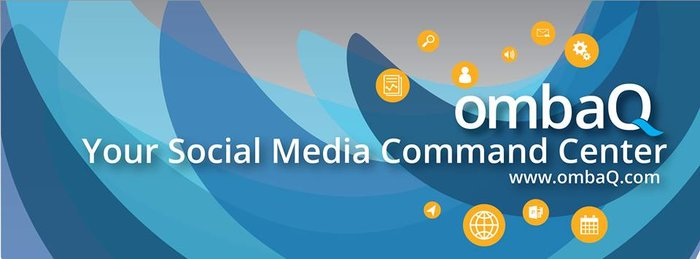
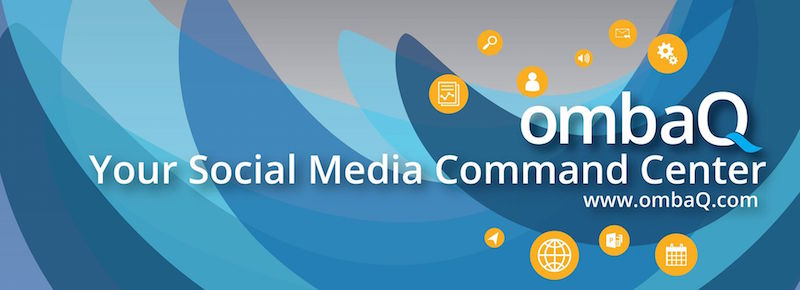
1. Change header background color to dark blue 2. Change main container max-width to 775px 3. Change ombaQ poster image 4. Change card margin 5. Change card box-shadow

diff --git a/dist/index.html b/dist/index.html
@@ -1,1 +1,1 @@
-<!DOCTYPE html><html><head><link rel=stylesheet href=https://cdnjs.cloudflare.com/ajax/libs/materialize/0.96.1/css/materialize.min.css><link rel=stylesheet href=https://maxcdn.bootstrapcdn.com/font-awesome/4.3.0/css/font-awesome.min.css><link rel=stylesheet href=https://cdnjs.cloudflare.com/ajax/libs/material-design-iconic-font/2.0.2/css/material-design-iconic-font.min.css><link rel=stylesheet href=styles/main-6e644ddebb.css><meta name=viewport content="width=device-width, initial-scale=1.0, maximum-scale=1.0, user-scalable=no"></head><body><header><div class=container><div class=row><div class="name col s12 m6"><a href=#><h5><strong>Timotius Nugroho Chandra</strong></h5></a></div><div class="contacts col s12 m6"><a href=https://linkedin.com/in/TimotiusChandra target=_blank><i class="fa fa-linkedin-square"></i></a> <a href=https://github.com/timotiusnc target=_blank><i class="fa fa-github-square"></i></a> <a href=mailto:timotius.nc@gmail.com><i class="fa fa-envelope-square"></i></a></div></div></div></header><main class=container><div class=row><div class="col s12"><div class="card showcase"><div class="card-image waves-effect waves-block waves-light"><img class=activator src=img/ombaq_poster-be7e93b04e.jpg></div><div class=card-content><span class="card-title activator grey-text text-darken-4"><a href=https://ombaq.com target=_blank>ombaQ.com</a></span><p>Social media analytics, monitoring, and collaboration tools. Developed with AngularJS and Laravel.</p></div><div class=card-reveal><span class="card-title grey-text text-darken-4">Full stack software engineer<i class="zmdi zmdi-close black-text right"></i></span><ul><li>Developed ombaQ's front-end using <a href=http://angularjs.org target=_blank>AngularJS</a>.</li><li>Developed ombaQ's internal API endpoints using <a href=http://laravel.com target=_blank>Laravel</a> PHP framework.</li></ul><a href=https://ombaq.com>ombaQ.com</a></div></div></div></div><div class=row><div class="col s12 m6"><div class="card showcase"><div class="card-image waves-effect waves-block waves-light"><img class=activator src=img/lely-fce8856ffb.gif></div><div class=card-content><span class="card-title activator grey-text text-darken-4"><a href=http://lelyvitowedding.com target=_blank>lelyvitowedding.com</a></span><p>Online wedding invitation for Lely & Vito.</p></div><div class=card-reveal><span class="card-title grey-text text-darken-4">Developer<i class="zmdi zmdi-close black-text right"></i></span><p>Developed using <a href=http://angularjs.org target=_blank>AngularJS</a> and utilizing <a href=http://firebase.com target=_blank>Firebase</a> cloud database for RSVP feature using Facebook account.</p><a href=http://lelyvitowedding.com>lelyvitowedding.com</a></div></div></div><div class="col s12 m6"><div class="card showcase"><div class="card-image waves-effect waves-block waves-light"><img class=activator src=img/yessica-2eba074027.gif></div><div class=card-content><span class="card-title activator grey-text text-darken-4"><a href=http://yessicaliya.com target=_blank>yessicaliya.com</a></span><p>Online wedding invitation for Yessica & Liya.</p></div><div class=card-reveal><span class="card-title grey-text text-darken-4">Developer<i class="zmdi zmdi-close black-text right"></i></span><p>In collaboration with <a href=https://twitter.com/rizafifah target=_blank>@rizafifah</a>.</p><p>Developed using <a href=http://angularjs.org target=_blank>AngularJS</a> and <a href=http://getbootstrap.com target=_blank>Bootstrap</a>.</p><a href=http://yessicaliya.com>yessicaliya.com</a></div></div></div></div><div class=row><div class="col s12"><div class="card showcase"><div class=card-content><span class="card-title grey-text text-darken-4"><a href=https://github.com/timotiusnc/doppelganger target=_blank>DoppelGanger</a></span><p><a href=https://ideone.com target=_blank>IDEOne</a>-like source code editor that lets you compile multiple source code files.</p><p>In collaboration with <a href=https://twitter.com/karoldanutama target=_blank>Karol Danutama</a> for online compilation service.</p><br><a href=https://github.com/timotiusnc/doppelganger target=_blank><i class="fa fa-github-square fa-2x"></i></a></div></div></div></div></main><footer></footer><script type=text/javascript src=https://code.jquery.com/jquery-2.1.1.min.js></script><script src=https://cdnjs.cloudflare.com/ajax/libs/materialize/0.96.1/js/materialize.min.js></script><script src=scripts/scripts-d41d8cd98f.js></script></body></html>
+<!DOCTYPE html><html><head><link rel=stylesheet href=https://cdnjs.cloudflare.com/ajax/libs/materialize/0.96.1/css/materialize.min.css><link rel=stylesheet href=https://maxcdn.bootstrapcdn.com/font-awesome/4.3.0/css/font-awesome.min.css><link rel=stylesheet href=https://cdnjs.cloudflare.com/ajax/libs/material-design-iconic-font/2.0.2/css/material-design-iconic-font.min.css><link rel=stylesheet href=styles/main-6afe4a9993.css><meta name=viewport content="width=device-width, initial-scale=1.0, maximum-scale=1.0, user-scalable=no"></head><body><header><div class=container><div class=row><div class="name col s12 m6"><a href=#><h5><strong>Timotius Nugroho Chandra</strong></h5></a></div><div class="contacts col s12 m6"><a href=https://linkedin.com/in/TimotiusChandra target=_blank><i class="fa fa-linkedin-square"></i></a> <a href=https://github.com/timotiusnc target=_blank><i class="fa fa-github-square"></i></a> <a href=mailto:timotius.nc@gmail.com><i class="fa fa-envelope-square"></i></a></div></div></div></header><main class=container><div class=row><div class="col s12"><div class="card showcase"><div class="card-image waves-effect waves-block waves-light"><img class=activator src=img/ombaq_poster-8a881b32bb.jpg></div><div class=card-content><span class="card-title activator grey-text text-darken-4"><a href=https://ombaq.com target=_blank>ombaQ.com</a></span><p>Social media analytics, monitoring, and collaboration tools. Developed with AngularJS and Laravel.</p></div><div class=card-reveal><span class="card-title grey-text text-darken-4">Full stack software engineer<i class="zmdi zmdi-close black-text right"></i></span><ul><li>Developed ombaQ's front-end using <a href=http://angularjs.org target=_blank>AngularJS</a>.</li><li>Developed ombaQ's internal API endpoints using <a href=http://laravel.com target=_blank>Laravel</a> PHP framework.</li></ul><a href=https://ombaq.com>ombaQ.com</a></div></div></div></div><div class=row><div class="col s12 m6"><div class="card showcase"><div class="card-image waves-effect waves-block waves-light"><img class=activator src=img/lely-fce8856ffb.gif></div><div class=card-content><span class="card-title activator grey-text text-darken-4"><a href=http://lelyvitowedding.com target=_blank>lelyvitowedding.com</a></span><p>Online wedding invitation for Lely & Vito.</p></div><div class=card-reveal><span class="card-title grey-text text-darken-4">Developer<i class="zmdi zmdi-close black-text right"></i></span><p>Developed using <a href=http://angularjs.org target=_blank>AngularJS</a> and utilizing <a href=http://firebase.com target=_blank>Firebase</a> cloud database for RSVP feature using Facebook account.</p><a href=http://lelyvitowedding.com>lelyvitowedding.com</a></div></div></div><div class="col s12 m6"><div class="card showcase"><div class="card-image waves-effect waves-block waves-light"><img class=activator src=img/yessica-2eba074027.gif></div><div class=card-content><span class="card-title activator grey-text text-darken-4"><a href=http://yessicaliya.com target=_blank>yessicaliya.com</a></span><p>Online wedding invitation for Yessica & Liya.</p></div><div class=card-reveal><span class="card-title grey-text text-darken-4">Developer<i class="zmdi zmdi-close black-text right"></i></span><p>In collaboration with <a href=https://twitter.com/rizafifah target=_blank>@rizafifah</a>.</p><p>Developed using <a href=http://angularjs.org target=_blank>AngularJS</a> and <a href=http://getbootstrap.com target=_blank>Bootstrap</a>.</p><a href=http://yessicaliya.com>yessicaliya.com</a></div></div></div></div><div class=row><div class="col s12"><div class="card showcase"><div class=card-content><span class="card-title grey-text text-darken-4"><a href=https://github.com/timotiusnc/doppelganger target=_blank>DoppelGanger</a></span><p><a href=https://ideone.com target=_blank>IDEOne</a>-like source code editor that lets you compile multiple source code files.</p><p>In collaboration with <a href=https://twitter.com/karoldanutama target=_blank>Karol Danutama</a> for online compilation service.</p><br><a href=https://github.com/timotiusnc/doppelganger target=_blank><i class="fa fa-github-square fa-2x"></i></a></div></div></div></div></main><footer></footer><script type=text/javascript src=https://code.jquery.com/jquery-2.1.1.min.js></script><script src=https://cdnjs.cloudflare.com/ajax/libs/materialize/0.96.1/js/materialize.min.js></script><script src=scripts/scripts-d41d8cd98f.js></script></body></html>

diff --git a/app/styles/_showcase.sass b/app/styles/_showcase.sass
@@ -1,5 +1,8 @@
 main.container
-  .showcase.card
+  > .row
     margin-bottom: 0
+  .showcase.card
+    margin: 10px 0
+    box-shadow: 0px 3px 1px -2px rgba(0, 0, 0, 0.14), 0px 2px 2px 0px rgba(0, 0, 0, 0.098), 0px 1px 5px 0px rgba(0, 0, 0, 0.082)
     .card-title
       font-weight: 500

diff --git a/app/styles/main.sass b/app/styles/main.sass
@@ -11,7 +11,7 @@ a
 
 main.container
   margin-top: -44px
-  max-width: 700px
+  max-width: 775px
   @media (min-width: 992px)
     margin-top: -72px
 

diff --git a/app/styles/_header.sass b/app/styles/_header.sass
@@ -1,6 +1,8 @@
+//#00BCD4 (Fuchsia)
+
 header
   height: 192px
-  background: #00BCD4
+  background: #4285F4
   color: #fff
   .row
     h5
